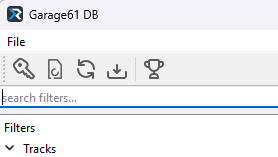
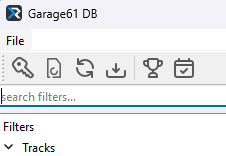
Update G61 toolbar overview

diff --git a/docs/analyzer/cloud_db.md b/docs/analyzer/cloud_db.md
@@ -20,7 +20,8 @@ Currently you can only access laps driven by you or your teammates due to Garage
 2. Update metadata
 3. Update laps (see below)
 4. Download selected laps
-5. Show only personal best laps
+5. Show only personal best laps (checkable)
+6. Show only laps from the current iRacing season (checkable)
 
 ## Authorization
 
